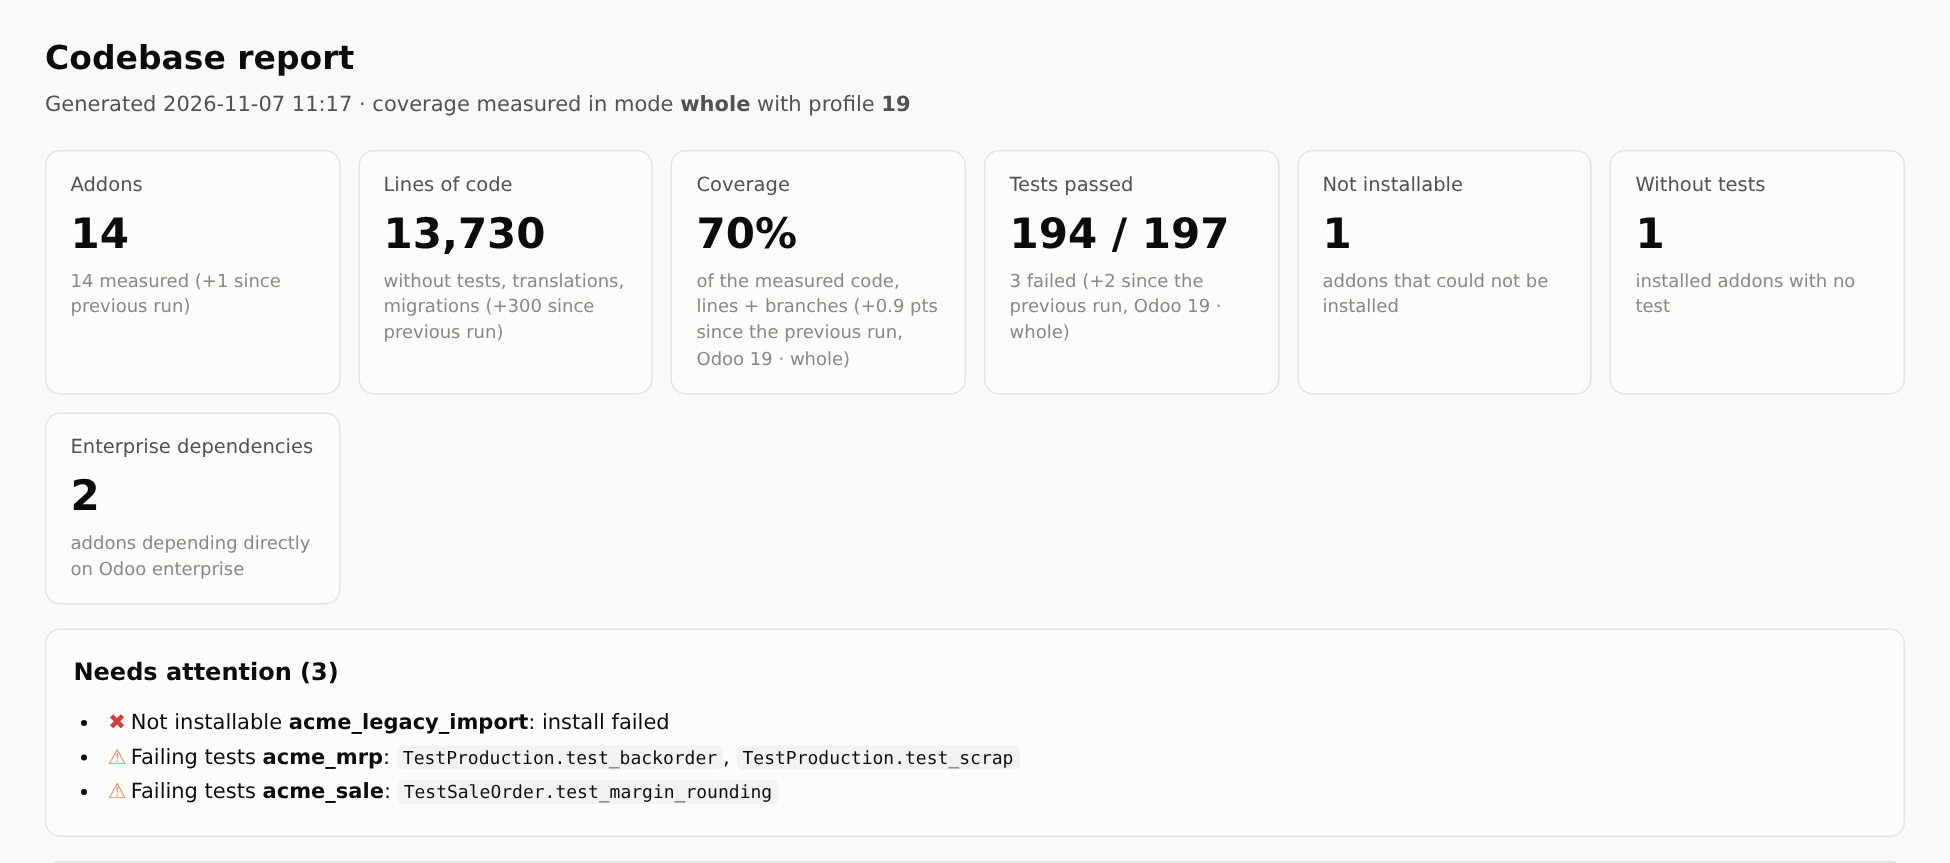
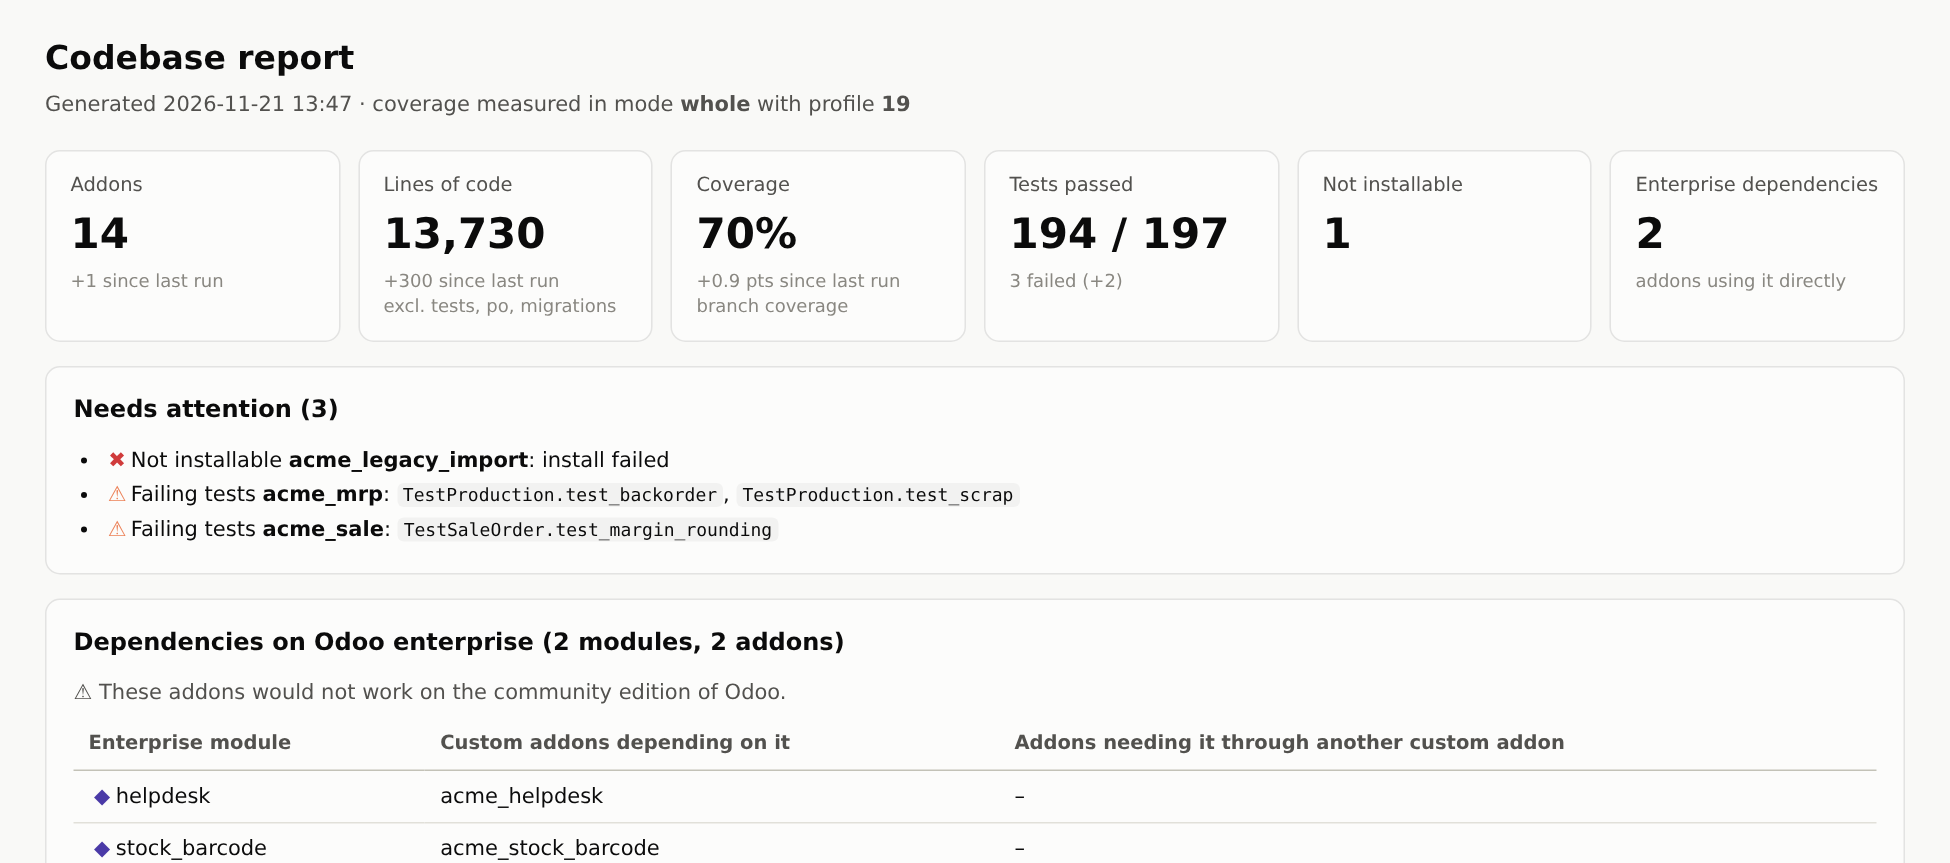
report: six tiles on one row, two short lines under each value
The tile "Without tests" is gone (a trend chart keeps it): the six others fit
on one row. Under each value, at most the change since the last run
("+300 since last run") and a short note ("branch coverage"); the run it is
compared with is in the tooltip of the change.

diff --git a/jsa/structure/report_html.py b/jsa/structure/report_html.py
@@ -273,35 +273,41 @@ def _tip(entry: dict) -> str:
     return ", ".join(parts + [f"{entry.get('loc', 0):,} lines"])
 
 
-def _delta(new, old, unit: str = "", decimals: int = 0, since: str = "previous run") -> str:
+def _delta(new, old, unit: str = "", decimals: int = 0, compared: str = "the previous report", short: bool = False) -> str:
+    """'+300 since last run' ('+1' when short), the exact comparison in its tooltip; '' when nothing changed."""
     if new is None or old is None or new == old:
         return ""
-    return f" ({new - old:+,.{decimals}f}{unit} since {since})"
+    text = f"{new - old:+,.{decimals}f}{unit}" + ("" if short else " since last run")
+    return f'<span title="Compared with {E(compared)}">{text}</span>'
 
 
 def _tiles(summary: dict, old: Optional[dict], previous: Optional[dict] = None, series: Optional[tuple] = None) -> str:
     """`old`: the summary of the previous report, for what does not depend on how the tests were run (addons, lines
     of code). `previous`: the previous run measured the same way as this one (`series`), for the measures: none when
-    this report did not measure anything, or when nothing was measured that way before."""
+    this report did not measure anything, or when nothing was measured that way before.
+    Each tile: a label, the value, at most two short lines (the change since the last run, a short note)."""
     old, previous = old or {}, previous or {}
-    since = f"the previous run, {report.series_label(series)}" if series else ""
-    measure = lambda key, unit="", decimals=0: _delta(summary[key], previous.get(key), unit, decimals, since)
+    compared = f"the previous run measured the same way: {report.series_label(series)}" if series else ""
+    measure = lambda key, unit="", decimals=0, short=False: _delta(summary[key], previous.get(key), unit, decimals, compared, short)
+    report_delta = lambda key: _delta(summary[key], old.get(key))
+    with_change = lambda text, change: text + (f" ({change})" if change else "")
     coverage = f"{summary['coverage']:.0f}%" if summary['coverage'] is not None else "–"
     passed = summary['tests'] - summary['failed']
+    enterprise = summary.get('enterprise')
     tiles = [
-        ("Addons", f"{summary['addons']}", f"{summary['measured']} measured" + _delta(summary['addons'], old.get('addons'))),
-        ("Lines of code", f"{summary['loc']:,}", "without tests, translations, migrations" + _delta(summary['loc'], old.get('loc'))),
-        ("Coverage", coverage, "of the measured code, lines + branches" + measure('coverage', " pts", 1)),
-        ("Tests passed", f"{passed:,} / {summary['tests']:,}" if summary['tests'] else "–", f"{summary['failed']} failed" + measure('failed')),
-        ("Not installable", f"{summary['not_installable']}", "addons that could not be installed" + measure('not_installable')),
-        ("Without tests", f"{summary['no_tests']}", "installed addons with no test" + measure('no_tests')),
-        ("Enterprise dependencies", "–" if summary.get('enterprise') is None else f"{summary['enterprise']}",
-         "no enterprise folder in the profiles of config.toml" if summary.get('enterprise') is None else
-         "addons depending directly on Odoo enterprise" + _delta(summary['enterprise'], old.get('enterprise'))),
+        ("Addons", f"{summary['addons']}", [report_delta('addons')]),
+        ("Lines of code", f"{summary['loc']:,}", [report_delta('loc'), "excl. tests, po, migrations"]),
+        ("Coverage", coverage, [measure('coverage', " pts", 1), "branch coverage"]),
+        ("Tests passed", f"{passed:,} / {summary['tests']:,}" if summary['tests'] else "–",
+         [with_change(f"{summary['failed']} failed", measure('failed', short=True))]),
+        ("Not installable", f"{summary['not_installable']}", [measure('not_installable')]),
+        ("Enterprise dependencies", "–" if enterprise is None else f"{enterprise}",
+         ["no enterprise folder in config.toml"] if enterprise is None else [report_delta('enterprise'), "addons using it directly"]),
     ]
     return '<div class="tiles">' + "".join(
-        f'<div class="tile"><div class="label">{label}</div><div class="value">{value}</div><div class="sub">{sub}</div></div>'
-        for label, value, sub in tiles) + '</div>'
+        f'<div class="tile"><div class="label">{label}</div><div class="value">{value}</div>'
+        + "".join(f'<div class="sub">{line}</div>' for line in lines if line) + '</div>'
+        for label, value, lines in tiles) + '</div>'
 
 
 def _attention(state: dict, standard: Optional[dict] = None) -> str:

diff --git a/tests/test_structure.py b/tests/test_structure.py
@@ -210,18 +210,23 @@ def test_tiles_compare_the_measures_with_the_run_measured_the_same_way():
     history = [run("isolated", 40.0, 2, 100), run("whole", 70.0, 0, 100), run("both", 43.0, 1, 110)]  # the last: this run
     summary = {**history[-1], "tests": 9, "measured": 2, "enterprise": None}
     previous_report = run("whole", 70.0, 0, 100)
-    page = report_html.render({}, summary, previous_report, None, None, history, {},
-                              {"generated_at": "2026-10-25T10:00:00", "mode": "both", "profile": "19", "odoo": 19})
-    tiles = page[page.index('<div class="tiles">'):page.index('</div></div></div>', page.index('Without tests'))]
-    # coverage and failures: against the previous isolated run (same method), not against the whole run just before
-    assert "(+3.0 pts since the previous run, Odoo 19 · one by one (isolated, both))" in tiles
-    assert "(-1 since the previous run, Odoo 19 · one by one (isolated, both))" in tiles
+    tiles_of = lambda page: page[page.index('<div class="tiles">'):page.index('</div></div>', page.index('Enterprise dependencies'))]
+    tiles = tiles_of(report_html.render({}, summary, previous_report, None, None, history, {},
+                                        {"generated_at": "2026-10-25T10:00:00", "mode": "both", "profile": "19", "odoo": 19}))
+    # coverage and failures: against the previous isolated run (same method), not against the whole run just before;
+    # the change in a few words, which run it is compared with in its tooltip
+    same_way = '<span title="Compared with the previous run measured the same way: Odoo 19 · one by one (isolated, both)">'
+    assert f'{same_way}+3.0 pts since last run</span>' in tiles
+    assert f'1 failed ({same_way}-1</span>)' in tiles
     assert "-27" not in tiles
-    assert "(+10 since previous run)" in tiles  # lines of code: against the previous report, whatever its method
+    assert '<span title="Compared with the previous report">+10 since last run</span>' in tiles  # lines of code
+    assert tiles.count('class="tile"') == 6  # one row (no tile for the addons without tests: a trend chart has them)
+    assert "without tests" not in tiles and "branch coverage" in tiles
+    # at most two lines under each value
+    assert all(tile.count('class="sub"') <= 2 for tile in tiles.split('class="tile"'))
     # a report that measured nothing compares no measure
-    page = report_html.render({}, summary, previous_report, None, None, history, {}, {"generated_at": "2026-10-25T10:00:00"})
-    tiles = page[page.index('<div class="tiles">'):page.index('</div></div></div>', page.index('Without tests'))]
-    assert "pts since" not in tiles and "(+10 since previous run)" in tiles
+    tiles = tiles_of(report_html.render({}, summary, previous_report, None, None, history, {}, {"generated_at": "2026-10-25T10:00:00"}))
+    assert "pts since" not in tiles and "+10 since last run" in tiles
 
 
 def _run(day, coverage, loc, todo=None, **more):

diff --git a/docs/guide.md b/docs/guide.md
@@ -142,8 +142,10 @@ then the other applications and modules. Useful before moving a database to the 
 
 ![Overview of the report](images/report_overview.png)
 
-- **Tiles**: addons, lines of code (without tests, translations and migrations), coverage, tests, addons that cannot
-  be installed, addons without tests, dependencies on Odoo enterprise; with their change since the previous run.
+- **Tiles**: addons, lines of code (without tests, translations and migrations), coverage (branch coverage: each
+  line, and each direction of each `if`), tests, addons that cannot be installed, dependencies on Odoo enterprise;
+  with their change since the
+  last run (its tooltip says which run: the measures compare with the last run measured the same way).
 - **Needs attention**, **changes since the previous run**, the **dependencies on Odoo enterprise** (direct, and through
   another custom addon).
 - **A table of the addons**, sortable and filterable; a click opens the failed tests, the lines not covered, the
